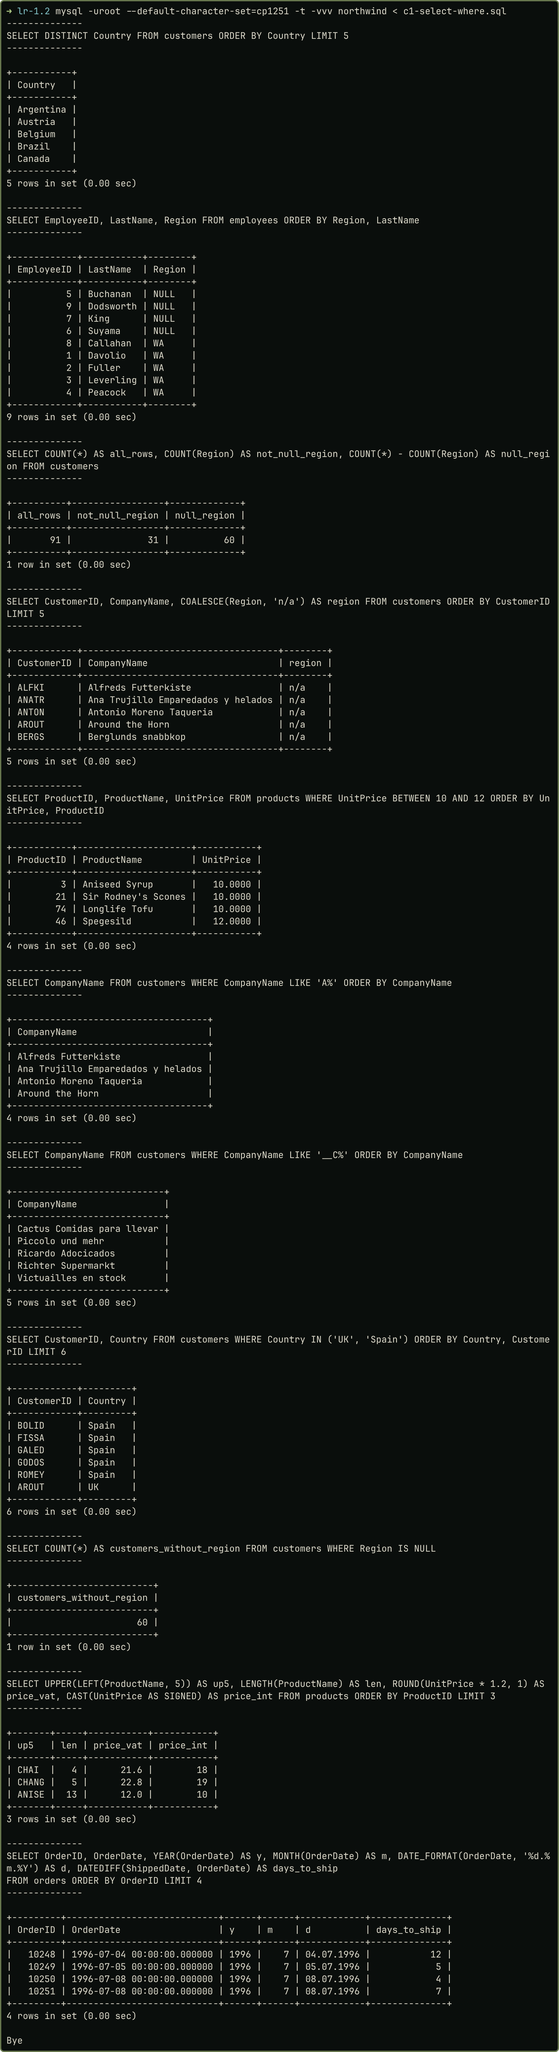
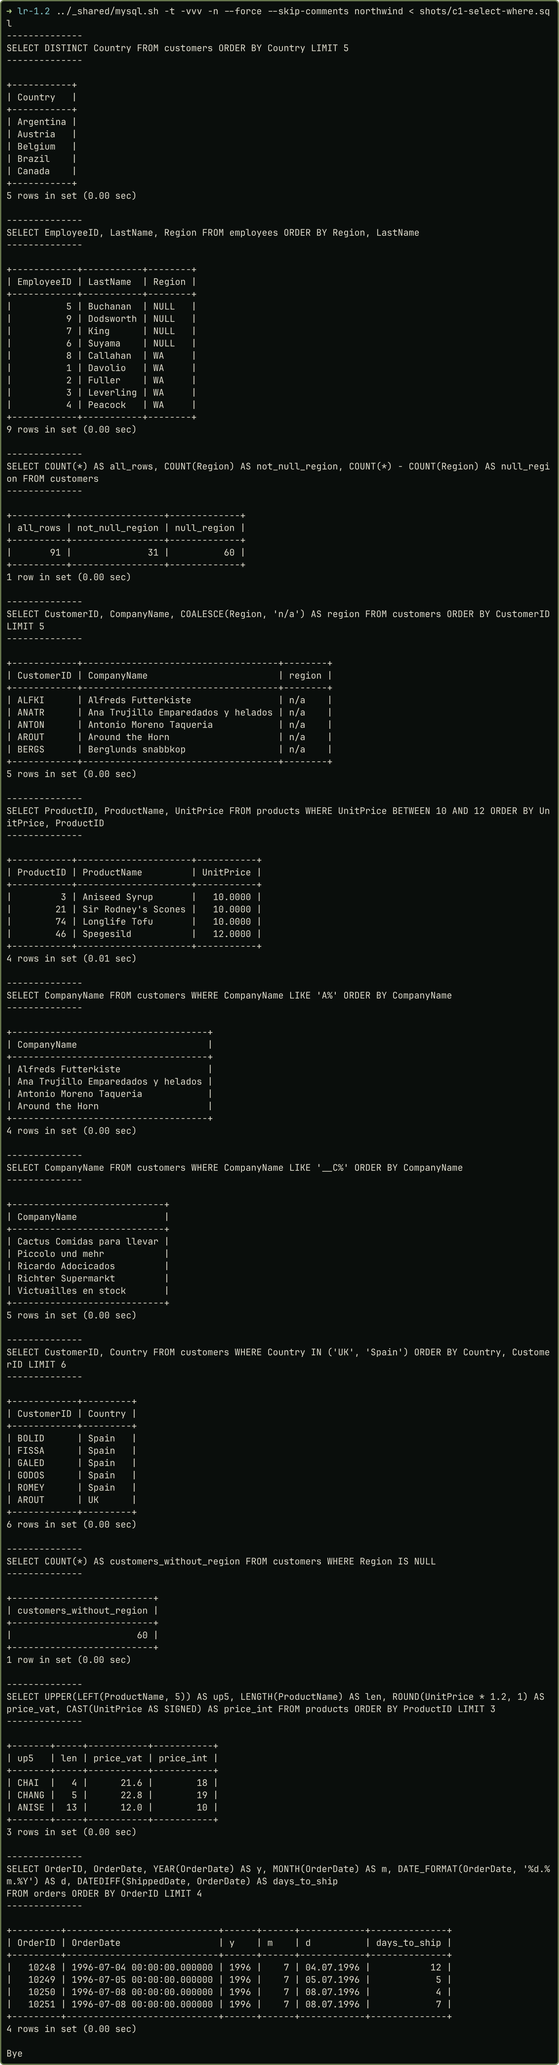
fix(db): rerun evidence with real commands and correct ER notation

diff --git a/db/pr-1.1/gen_infological.py b/db/pr-1.1/gen_infological.py
@@ -12,7 +12,7 @@ ENT = {
     "branch": ("Філіал",     "основна", (2, 1), [("Код філіалу", 1, 20, 1.65), ("Назва", 0, 340, 1.4), ("Місто", 0, 55, 1.2)]),
     "emp":    ("Працівник",  "основна", (2, 0), [("Код працівника", 1, 15, 1.85), ("ПІБ", 0, 320, 1.3), ("Посада", 0, 270, 1.0)]),
     "cust":   ("Клієнт",     "основна", (0, 1), [("Код клієнта", 1, 160, 1.5), ("ПІБ", 0, 110, 1.05), ("Телефон", 0, 215, 1.4)]),
-    "rent":   ("Оренда",     "асоціативна", (1, 1), [("Код оренди", 1, 155, 1.7), ("Початок", 0, 112, 1.35), ("Повернення", 0, 72, 1.9)]),
+    "rent":   ("Оренда",     "асоціативна", (1, 1), [("Код оренди", 1, 140, 2.5), ("Початок", 0, 112, 1.35), ("Повернення", 0, 72, 1.9)]),
     "pay":    ("Платіж",     "основна", (1, 0), [("Код платежу", 1, 200, 1.6), ("Сума", 0, 270, 0.9), ("Вид", 0, 330, 1.2)]),
     "extra":  ("Послуга",    "основна", (0, 0), [("Код послуги", 1, 160, 1.5), ("Назва", 0, 215, 1.35), ("Ціна", 0, 270, 0.9)]),
 }
@@ -37,8 +37,9 @@ print('  layout=neato; splines=false; overlap=true; pad=0.2;')
 print('  node [fontname="DejaVu Sans", fontsize=13]; edge [fontname="DejaVu Sans", fontsize=13, fontcolor="#a00000", labeldistance=2.0, labelangle=0];')
 for eid, (name, cls, (c, r), attrs) in ENT.items():
     x, y = pos(c, r)
-    per = 2 if cls == "асоціативна" else 1
-    print(f'  {eid} [label="{name}", shape=box, style=filled, fillcolor="#e8eef9", penwidth=1.6, peripheries={per}, width=1.5, height=0.55, fontsize=18, pos="{x:.2f},{y:.2f}!"];')
+    # асоціативна сутність, як у матеріалах курсу, шестикутник; основні сутності прямокутники
+    shape = "hexagon" if cls == "асоціативна" else "box"
+    print(f'  {eid} [label="{name}", shape={shape}, style=filled, fillcolor="#e8eef9", penwidth=1.6, width=1.5, height=0.55, fontsize=18, pos="{x:.2f},{y:.2f}!"];')
     for i, (a, key, ang, d) in enumerate(attrs):
         ax, ay = x + d * math.cos(math.radians(ang)) * 1.0, y + d * math.sin(math.radians(ang)) * 0.8
         lab = f"<<U>{a}</U>>" if key else f'"{a}"'

diff --git a/db/pr-1.1/report.md b/db/pr-1.1/report.md
@@ -15,19 +15,21 @@ city-year: "Київ – 2026"
 
 ## Завдання
 
-Варіант 22. Прокат автомобілів: філіали, класи й моделі авто, автомобілі, клієнти, працівники, оренди, платежі, додаткові послуги (≥ 5 сутностей з обмеженнями). Мета: побудувати інфологічну й даталогічну моделі, створити й наповнити базу, перевірити обмеження. СУБД: MySQL 8.4 (InnoDB, `utf8mb4`) у Docker.
+Варіант 22. Прокат автомобілів: філіали, класи й моделі авто, автомобілі, клієнти, працівники, оренди, платежі, додаткові послуги. Мета: побудувати інфологічну й даталогічну моделі, створити й наповнити базу, перевірити обмеження. СУБД: MySQL 8.4 (InnoDB, `utf8mb4`) у Docker.
 
 ## Розв'язання
 
 ### Інфологічна й даталогічна моделі
 
-Інфологічна модель (рис. 1) має дев'ять сутностей; асоціативна сутність «Оренда» (подвійна рамка). Зв'язок M:N між «Орендою» і «Послугою» має атрибут «Кількість».
+Інфологічна модель (рис. 1) має дев'ять сутностей. «Оренду» я позначив шестикутником як асоціативну сутність: вона пов'язує клієнта, авто, працівника й філіал. Зв'язок M:N між «Орендою» і «Послугою» має атрибут «Кількість».
 
 ![Рисунок 1 — Інфологічна модель (нотація Чена)](img/er_infological.png){width=52%}
 
-Даталогічна модель (рис. 2): зв'язок M:N розбито на два 1:N через `rental_extras` зі складеним ключем. Модель у 3НФ; єдина свідома денормалізація: `rentals.daily_price` (тариф на момент договору). Три ціни різні за змістом: `car_classes.daily_base_rate` це базова (довідкова) ставка класу, `cars.daily_price` поточний тариф конкретного авто, `rentals.daily_price` тариф, зафіксований у договорі.
+Даталогічна модель (рис. 2): зв'язок M:N розбито на два 1:N через `rental_extras` зі складеним ключем. Модель у 3НФ. Три ціни різні за змістом: `car_classes.daily_base_rate` — базова (довідкова) ставка класу, `cars.daily_price` — поточний тариф конкретного авто, `rentals.daily_price` — тариф, зафіксований у договорі. Тому ціна договору не дублює ціну авто: після зміни тарифу старі договори зберігають свою суму.
 
-![Рисунок 2 — Даталогічна модель (ER-діаграма)](img/er_datalogical.png){width=56%}
+![Рисунок 2 — Даталогічна модель (ER-діаграма)](img/er_datalogical.png){width=78%}
+
+Позначення на рис. 2: `*` означає, що стовпець допускає `NULL`; кружок на кінці лінії означає «нуль» (зв'язок необов'язковий), риска «один», лапка «багато».
 
 **Опис таблиць** (тип подано з довжиною й точністю). `ON DELETE`: довідникові й фінансові зв'язки мають `RESTRICT`, склад оренди `CASCADE`, працівник у договорі `SET NULL`. Обмежень рівня таблиці немає, якщо не вказано.
 
@@ -85,7 +87,7 @@ city-year: "Київ – 2026"
 | `license_expires` | DATE | NOT NULL |
 | `registered_at` | DATETIME | NOT NULL; за замовч. поточні дата й час |
 
-*Обмеження таблиці:* дата закінчення дії посвідчення пізніша за дату народження (license_expires > birth_date).
+*Обмеження таблиці:* `license_expires > birth_date`.
 
 | **Працівники** (`employees`) | Тип (довжина, точність) | Обмеження |
 |:--------------|:------------|:------------------------------------|
@@ -110,7 +112,7 @@ city-year: "Київ – 2026"
 | `daily_price` | DECIMAL(8,2) | NOT NULL; більше 0 |
 | `status` | VARCHAR(10) | NOT NULL; лише «booked», «active», «closed», «cancelled»; за замовч. «booked» |
 
-*Обмеження таблиці:* планове повернення пізніше за початок оренди (planned_end_at > start_at); фактичне повернення не раніше за початок оренди (actual_end_at IS NULL OR actual_end_at >= start_at).
+*Обмеження таблиці:* `planned_end_at > start_at`; `actual_end_at IS NULL OR actual_end_at >= start_at`.
 
 | **Платежі** (`payments`) | Тип (довжина, точність) | Обмеження |
 |:--------------|:------------|:------------------------------------|
@@ -133,31 +135,25 @@ city-year: "Київ – 2026"
 | `extra_id` | INT | PK (складений); FK на `extras`, RESTRICT |
 | `quantity` | TINYINT | NOT NULL; більше 0; за замовч. 1 |
 
-*Обмеження таблиці:* первинний ключ складений: `rental_id`, `extra_id`.
-
 ### Фізична модель і наповнення
 
-`schema.sql` створює базу й 10 таблиць з іменованими обмеженнями (фрагмент); `seed.sql` вставляє вигадані дані українською (4 філіали, 24 авто, 20 клієнтів, 30 оренд, 81 платіж тощо).
+`schema.sql` створює базу й 10 таблиць з іменованими обмеженнями (фрагмент нижче); `seed.sql` вставляє вигадані дані українською (4 філіали, 24 авто, 20 клієнтів, 30 оренд, 81 платіж тощо).
+
+| Рисунок 3 — Кількість рядків у таблицях | Рисунок 4 — Вміст таблиці `car_classes` |
+|:-----------|:-----------|
+| ![](screenshots/05-tables-and-counts.png){width=88%} | ![](screenshots/07-select-car_classes.png){width=88%} |
 
 ```sql
 CREATE DATABASE car_rental CHARACTER SET utf8mb4 COLLATE utf8mb4_0900_ai_ci;
-USE car_rental;
 CREATE TABLE rentals (
     rental_id          INT           NOT NULL AUTO_INCREMENT,
-    customer_id        INT           NOT NULL,
-    car_id             INT           NOT NULL,
-    employee_id        INT           NULL,
-    -- …
-    start_at           DATETIME      NOT NULL,
-    planned_end_at     DATETIME      NOT NULL,
-    -- …
+    -- … ще 10 стовпців
     CONSTRAINT pk_rentals PRIMARY KEY (rental_id),
     CONSTRAINT fk_rentals_employee FOREIGN KEY (employee_id)
         REFERENCES employees (employee_id) ON DELETE SET NULL,
     -- …
     CONSTRAINT chk_rentals_planned CHECK (planned_end_at > start_at),
     -- …
-    CONSTRAINT chk_rentals_status CHECK (status IN ('booked', 'active', 'closed', 'cancelled'))
 );
 INSERT INTO car_classes (class_id, name, daily_base_rate, deposit_amount) VALUES
 (1, 'Економ', 800.00, 2000.00),
@@ -166,18 +162,16 @@ INSERT INTO car_classes (class_id, name, daily_base_rate, deposit_amount) VALUES
 (5, 'Преміум', 2800.00, 8000.00);
 ```
 
-| Рисунок 3 — Усі таблиці створено й наповнено (кількість рядків) | Рисунок 4 — Вміст таблиці `car_classes` (решта — у теці `screenshots/`) |
-|:-----------|:-----------|
-| ![](screenshots/05-tables-and-counts.png){width=88%} | ![](screenshots/07-select-car_classes.png){width=88%} |
-
 ### Перевірка обмежень
 
-`check.sql` на копії бази: три порушення `CHECK` (помилка 3819); дублікат VIN (1062), неіснуюча модель (1452) і `RESTRICT` при видаленні філіалу (1451) (рис. 5). `CASCADE` прибрав склад видаленої оренди (було 2 рядки, стало 0). `SET NULL`: після видалення працівника його оренда лишилась, а `employee_id` став `NULL` (оренд без працівника було 5, стало 6). `ON DELETE SET DEFAULT` в InnoDB не виконується (помилка 1451), тому не застосовано.
+`check.sql` я запускав на копії `car_rental_check`, бо невдалі `INSERT` спалюють `AUTO_INCREMENT`. Три порушення `CHECK` дали помилку 3819, дублікат VIN 1062, неіснуюча модель 1452, видалення філіалу з авто 1451 (`RESTRICT`, рис. 5). `CASCADE` прибрав склад видаленої оренди (було 2 рядки, стало 0). За `SET NULL` після видалення працівника його оренда лишилась із `employee_id = NULL` (оренд без працівника було 5, стало 6). `ON DELETE SET DEFAULT` InnoDB не виконує (1451), тому не застосовано.
 
-![Рисунок 5 — `UNIQUE`, `FOREIGN KEY`, `RESTRICT`](screenshots/08-check-2-unique-fk-restrict.png){width=56%}
+![Рисунок 5 — `UNIQUE`, `FOREIGN KEY`, `RESTRICT`](screenshots/08-check-2-unique-fk-restrict.png){width=46%}
 
-Повні `schema.sql`, `seed.sql`, `check.sql`, джерела діаграм і всі знімки лежать у репозиторії: <https://github.com/brizzinck/krinzhrepoduta/tree/main/db/pr-1.1>.
+Скрипти й знімки лежать у репозиторії:
+
+<https://github.com/brizzinck/krinzhrepoduta/tree/main/db/pr-1.1>.
 
 ## Висновки
 
-Для предметної області «Прокат автомобілів» спроєктовано реляційну БД із 10 таблиць. Побудовано інфологічну модель у нотації Чена та даталогічну ER-модель, де зв'язок «багато-до-багатьох» розбито асоціативною таблицею, а модель приведено до 3НФ. Фізичну модель реалізовано в MySQL 8.4 з обмеженнями PRIMARY KEY, FOREIGN KEY, UNIQUE, NOT NULL, CHECK і правилами `ON DELETE` (`RESTRICT`, `CASCADE`, `SET NULL`). Базу наповнено узгодженими даними, `check.sql` підтвердив спрацювання обмежень, а `ON DELETE SET DEFAULT` в InnoDB не виконується.
+Я спроєктував базу прокату авто з 10 таблиць, де зв'язок M:N оренди й послуги розбито таблицею `rental_extras`. Таблиці в 3НФ, обмеження мають власні імена, тому з помилки видно, яке з них спрацювало. Даталогічну діаграму зібрано з `information_schema`, тож вона збігається зі схемою. Для працівника в договорі обрано `SET NULL`: договір лишається в історії після звільнення. `check.sql` підтвердив роботу `CHECK`, `UNIQUE`, `FOREIGN KEY`, `RESTRICT`, `CASCADE` і `SET NULL`.

diff --git a/db/sr-5.1/report.md b/db/sr-5.1/report.md
@@ -35,7 +35,7 @@ city-year: "Київ – 2026"
 
 ## Приклади на базі «Прокат автомобілів»
 
-Усі результати отримано справжнім виконанням запитів (`examples.sql`). Для ∪, ∩, − використано R₁ = π<sub>customer_id</sub>(σ<sub>pickup_branch_id=3</sub>(rentals)) і R₂ те саме для філіалу 4.
+Усі результати я отримав, виконавши `examples.sql` на базі ПР 1.1. Для ∪, ∩, − використано R₁ = π<sub>customer_id</sub>(σ<sub>pickup_branch_id=3</sub>(rentals)) і R₂ те саме для філіалу 4.
 
 | Операція | Запит (скорочено) | Результат |
 |:----------|:---------------------------------|:-------------------------------|
@@ -48,13 +48,13 @@ city-year: "Київ – 2026"
 | θ-з'єднання | `rentals r JOIN cars c ON r.car_id=c.car_id AND r.daily_price < c.daily_price` | 10 договорів, укладених за нижчим тарифом, ніж поточний |
 | екві-/природне | `car_classes ⋈ car_models` за `class_id` | по 12 рядків; у природному `class_id` один, в еквіз'єднанні два |
 | напівз'єднання | `customers WHERE EXISTS (… rentals …)` | 18 клієнтів (`JOIN` дав би 30); без оренд 2 (антиз'єднання) |
-| повне зовнішнє | `FULL OUTER JOIN` | помилка 1064; емуляція дає 32 рядки, з них 7 без пари (рис. 2) |
+| повне зовнішнє | `FULL OUTER JOIN` | помилка 1064; емуляція дає 32 рядки: 25 пар, 2 працівники без оренд, 5 оренд без працівника (рис. 2) |
 | ÷ | клієнти, що орендували авто класів «Економ» і «Преміум» | клієнти 1 і 11; ділення на всі класи дає порожній результат |
 
-Ключові запити: емуляція повного з'єднання (усі пари, плюс непарні рядки обох боків) та ділення (подвійне заперечення).
+Два найцікавіші запити: емуляція повного з'єднання (усі пари, плюс непарні рядки обох боків) та ділення (подвійне заперечення).
 
 ```sql
--- повне з'єднання: LEFT JOIN UNION RIGHT JOIN, 32 рядки
+-- повне з'єднання: LEFT JOIN UNION RIGHT JOIN
 SELECT e.employee_id, e.full_name, r.rental_id FROM employees e
 LEFT JOIN rentals r ON r.employee_id = e.employee_id
 UNION
@@ -72,9 +72,7 @@ WHERE NOT EXISTS (
         AND r.status <> 'cancelled'));
 ```
 
-Додатково показано відсутність `MINUS` і `FULL OUTER JOIN` (помилка 1064 на обох знімках). Емуляція дає 32 рядки: 25 пар «працівник, оренда», 2 працівники без оренд і 5 оренд без працівника.
-
-| Рисунок 1 — Різниця: `EXCEPT` працює, `MINUS` — помилка | Рисунок 2 — `FULL OUTER JOIN`: помилка й емуляція (32 рядки, 7 без пари) |
+| Рисунок 1 — Різниця: `EXCEPT` і `MINUS` | Рисунок 2 — `FULL OUTER JOIN` і його емуляція |
 |:-----------|:-----------|
 | ![](screenshots/03-except.png){width=100%} | ![](screenshots/10-full-join.png){width=100%} |
 
@@ -85,11 +83,13 @@ WHERE NOT EXISTS (
 3. *Порядок.* Відношення неупорядковане: `ORDER BY` і `LIMIT` є надбудовами SQL, а без `ORDER BY` порядок рядків не гарантовано.
 4. *Імена стовпців.* `INNER JOIN` може повернути два стовпці `class_id`, в алгебрі атрибути унікальні (потрібні `AS` або `NATURAL JOIN`).
 
-Усі запити, виводи й знімки: <https://github.com/brizzinck/krinzhrepoduta/tree/main/db/sr-5.1>.
+Усі запити, виводи й знімки лежать у репозиторії:
+
+<https://github.com/brizzinck/krinzhrepoduta/tree/main/db/sr-5.1>.
 
 ## Висновки
 
-Розглянуто вісім операцій реляційної алгебри (об'єднання, перетин, різниця, декартів добуток, проєкція, вибірка, з'єднання, ділення) та їх розширення (напівз'єднання, зовнішні з'єднання). Для кожної наведено позначення, визначення, SQL-аналог і справжній результат на базі `car_rental` у MySQL 8.4. З'ясовано, що в MySQL 8.4 є `UNION`, `INTERSECT`, `EXCEPT`, `CROSS` і `NATURAL JOIN`, але немає `MINUS` і `FULL OUTER JOIN` (емулюється), а ділення записується через подвійне заперечення. Головні розбіжності SQL з алгеброю: дублікати (мультимножини), `NULL` із тризначною логікою та небезпечним `NOT IN`, неупорядкованість результату.
+Я описав вісім операцій Кодда з позначеннями й визначеннями та для кожної виконав SQL-відповідник на базі `car_rental`. Більшість операцій MySQL 8.4 має напряму (`UNION`, `INTERSECT`, `EXCEPT`, `CROSS JOIN`, `NATURAL JOIN`), повне зовнішнє з'єднання доводиться збирати з `LEFT` і `RIGHT JOIN`, а ділення записується подвійним `NOT EXISTS`. Перетин через `INTERSECT` і через `R₁ − (R₁ − R₂)` в обох випадках дав клієнтів 1 і 8. На відміну від алгебри, SQL працює з мультимножинами й тризначною логікою `NULL`. Найбільше мене здивував `NOT IN`: `NULL` серед значень підзапиту робить результат порожнім, тоді як `NOT EXISTS` знаходить двох працівників без оренд.
 
 ## Список джерел
 

diff --git a/db/pr-1.2/report.md b/db/pr-1.2/report.md
@@ -19,7 +19,7 @@ city-year: "Київ – 2026"
 
 ## Розв'язання
 
-**Підготовка бази.** У дампі викладачки `Discount` має тип `float(24,0)`, тому всі знижки дорівнюють 0, а дохід 1997 р. виходить 658 388,75, а за T-SQL-версією скрипта 617 085,2. Знижки відновлено з T-SQL-версії (`DECIMAL(4,2)`, 838 значень), суми збіглися. У знімках видно запит і результат; для запитів 2, 5, 6 показано 10 перших рядків і окремий `COUNT(*)`.
+**Підготовка бази.** У дампі викладачки `Discount` має тип `float(24,0)`, тому всі знижки дорівнюють 0, і дохід 1997 р. виходить 658 388,75 замість 617 085,2, яке наводить умова варіанта 9 (завдання 5). Я відновив знижки з T-SQL-версії скрипта (`DECIMAL(4,2)`, 838 значень), після чого сума збіглась, а QUICK-Stop дає 110 277,31, як у підказці варіанта 10 (завдання 4). Для запитів 2, 5, 6 показано 10 перших рядків і окремий `COUNT(*)`.
 
 ### Запити 1–3
 
@@ -79,7 +79,7 @@ UNION ALL
 SELECT CompanyName, 'Customer' FROM customers WHERE Country = 'Germany';
 ```
 
-Запит 5: дохід рядка це `UnitPrice * Quantity * (1 - Discount)`; `INNER JOIN` дає 89 клієнтів (ще двоє з 91 замовлень не мають), перший — QUICK-Stop, 110 277,31. Запит 6: скалярний корельований підзапит у списку `SELECT`; «відповідальний» означає `orders.EmployeeID` (`ShipVia` веде на перевізників). Результат: 830 рядків, як в умові. Запит 7: `UNION ALL` не видаляє дублікатів, стовпець `role` показує, хто постачальник, а хто клієнт; 3 + 11 = 14 рядків (`UNION` дав би стільки ж, але `ALL` відповідає умові).
+Запит 5: дохід рядка це `UnitPrice * Quantity * (1 - Discount)`; `INNER JOIN` дає 89 клієнтів (ще двоє з 91 замовлень не мають), перший — QUICK-Stop, 110 277,31. Запит 6: скалярний корельований підзапит у списку `SELECT`, ім'я складає `CONCAT` (у T-SQL це `+`); «відповідальний» означає `orders.EmployeeID` (`ShipVia` веде на перевізників). Результат: 830 рядків, як в умові. Запит 7: `UNION ALL` не видаляє дублікатів, стовпець `role` показує, хто постачальник, а хто клієнт; 3 + 11 = 14 рядків (`UNION` дав би стільки ж, але `ALL` відповідає умові).
 
 ### Знімки результатів
 
@@ -101,4 +101,4 @@ SELECT CompanyName, 'Customer' FROM customers WHERE Country = 'Germany';
 
 ## Висновки
 
-У роботі виконано сім запитів варіанта 2 на базі Northwind у MySQL 8.4: вибірку з умовою, відбір за днем тижня, агрегацію, з'єднання з лічильниками, дохід зі знижкою через `JOIN`-и, скалярний підзапит і `UNION ALL`. Результати збігаються з умовою: 5 рядків у запиті 4 і 830 у запиті 6. Звірка доходу 1997 р. (617 085,2) із T-SQL-версією скрипта виявила дефект наданого дампа (обнулені знижки). Опановано відповідники T-SQL у MySQL (`DATEPART` замінюється на `DAYOFWEEK`, `+` на `CONCAT`). Показано, що `COUNT(DISTINCT)` захищає лічильники від множення рядків у `JOIN`, а вибір між `INNER` і `LEFT JOIN` змінює результат (89 проти 91 клієнтів).
+Сім запитів варіанта 2 виконано на Northwind у MySQL 8.4: від простої вибірки з умовою до скалярного підзапиту й `UNION ALL`. Запит 4 повернув 5 рядків, запит 6 повернув 830, як вимагає умова. Найбільше часу забрала розбіжність доходу 1997 р.: виявилось, що в дампі обнулені знижки, і я виправив це за T-SQL-версією, звіривши суми з контрольними значеннями варіантів 9 і 10. Конструкції T-SQL довелося замінити на відповідники MySQL: `DATEPART` на `DAYOFWEEK`, конкатенацію `+` на `CONCAT`. Запит 4 показав, що без `COUNT(DISTINCT)` з'єднання множить рядки й лічильники стають хибними. Вибір між `INNER` і `LEFT JOIN` теж змінює результат: 89 клієнтів із замовленнями проти 91 усього.
